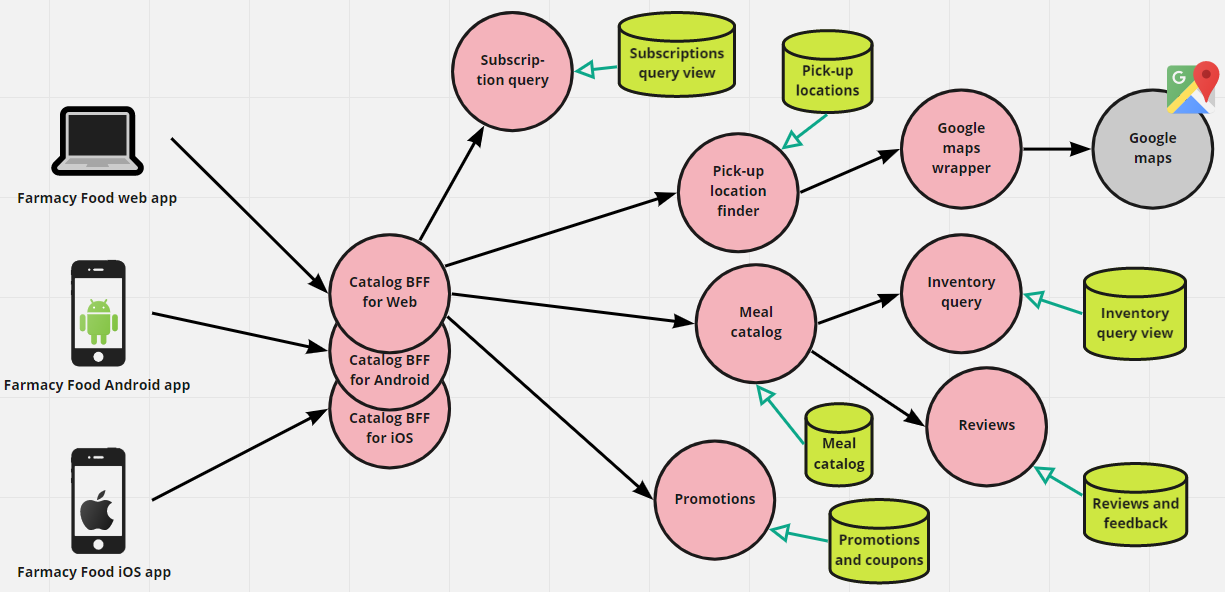
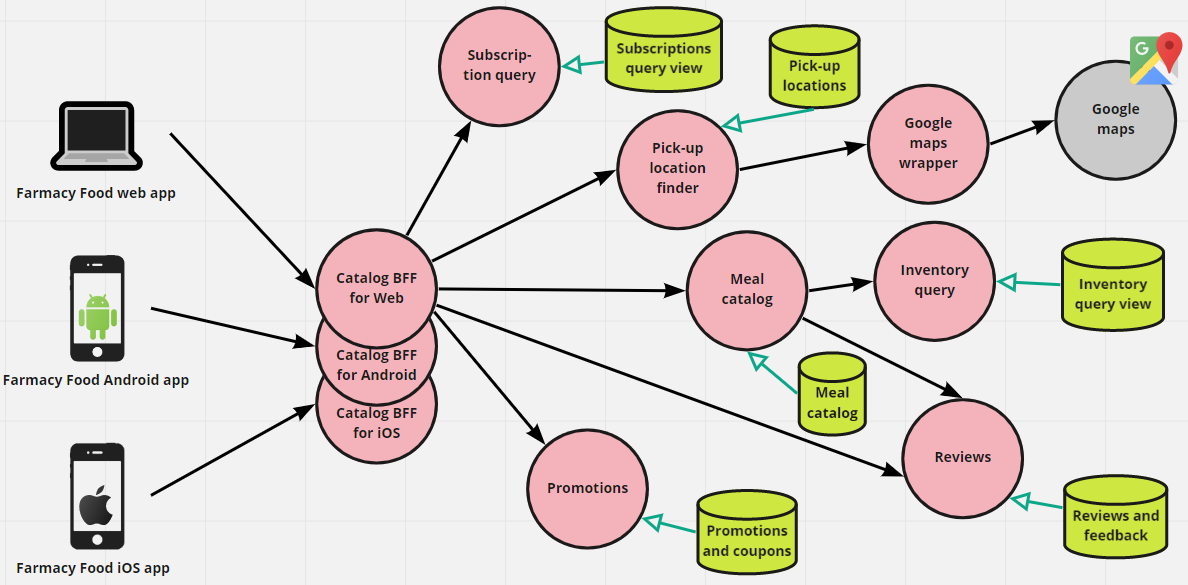
update images after context map review

diff --git a/architecture/order-microservice-eda-view.md b/architecture/order-microservice-eda-view.md
@@ -67,6 +67,12 @@ payment status.
     - by *Order BFF* when the customer updates or cancels an order.   
 - It uses the CQRS pattern. 
 
+#### Subscription order creation
+- This batch program generates purchases based on active subscription.
+- A subscription is charged every month. The payment has to be processed and notifications are generated, similar
+to a purchase order placed online.   
+
+
 #### Reviews
 - Has endpoints to allow the customer to rate meals, add reviews, or give non-public feedback for verified purchases
 - Has also endpoints for querying and searching reviews and ratings. These endpoints are used when looking at a meal item 
